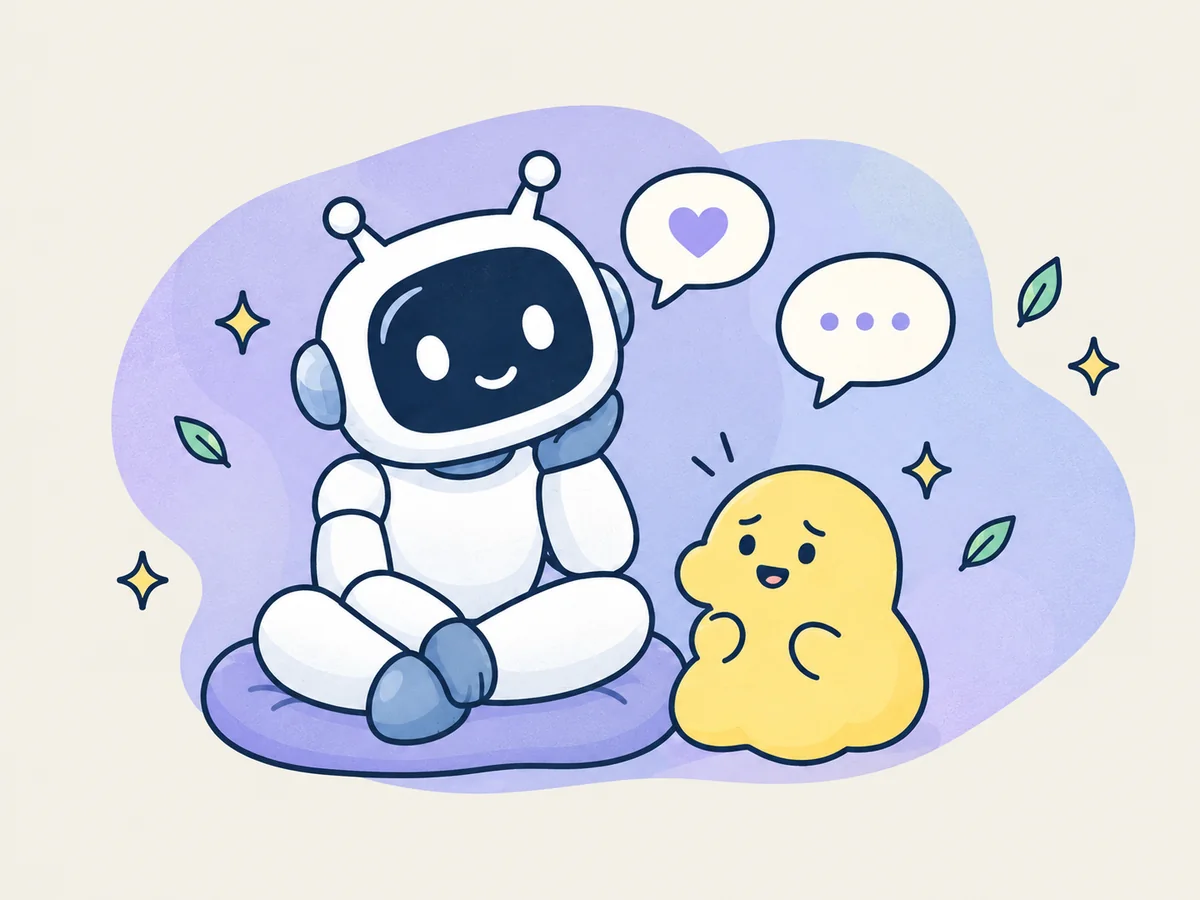
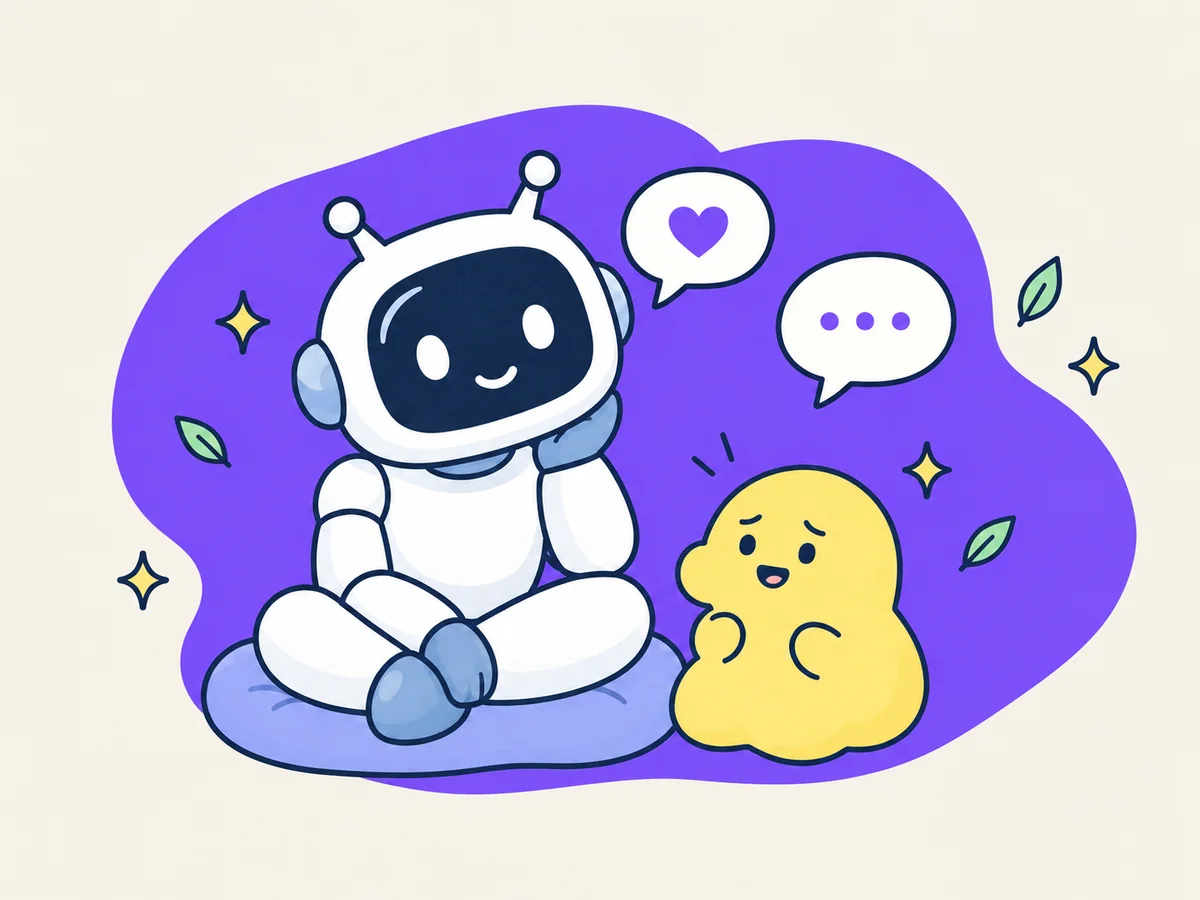
revise home page colors, feature card titles and relaxmate illustration

diff --git a/resources/views/public/beranda.blade.php b/resources/views/public/beranda.blade.php
@@ -47,8 +47,8 @@
                     <img src="{{ $img }}/asesmen-checklist.webp" width="700" height="700" loading="lazy" alt="" data-tilt="4" class="size-32 object-contain">
                 </div>
                 <div>
-                    <h3>Asesmen</h3>
-                    <p class="mt-2">Jawab beberapa pertanyaan dan lihat gambaran awal kondisimu.</p>
+                    <h3 class="text-center text-2xl font-semibold">Asesmen</h3>
+                    <p class="mt-2 text-center">Jawab beberapa pertanyaan dan lihat gambaran awal kondisimu.</p>
                 </div>
             </article>
             <article data-item data-lift class="flex flex-col gap-5 rounded-xl bg-mood-green p-5 text-text shadow-card transition-shadow duration-300 hover:shadow-popover lg:p-6">
@@ -56,8 +56,8 @@
                     <img src="{{ $img }}/mood-tracker.webp" width="700" height="700" loading="lazy" alt="" data-tilt="4" class="size-40 object-contain">
                 </div>
                 <div>
-                    <h3>Mood Tracker</h3>
-                    <p class="mt-2">Catat perasaanmu dan lihat polanya dalam seminggu.</p>
+                    <h3 class="text-center text-2xl font-semibold">Mood Tracker</h3>
+                    <p class="mt-2 text-center">Catat perasaanmu dan lihat polanya dalam seminggu.</p>
                 </div>
             </article>
             <article data-item data-lift class="flex flex-col gap-5 rounded-xl bg-brand p-5 text-on-primary shadow-card transition-shadow duration-300 hover:shadow-popover lg:p-6">
@@ -65,30 +65,30 @@
                     <img src="{{ $img }}/robot-wave.webp" width="800" height="800" loading="lazy" alt="" data-tilt="-4" class="size-36 object-contain">
                 </div>
                 <div>
-                    <h3>RelaxMate</h3>
-                    <p class="mt-2">Teman bicara berbasis AI. Bukan psikolog atau layanan medis.</p>
+                    <h3 class="text-center text-2xl font-semibold">RelaxMate</h3>
+                    <p class="mt-2 text-center">Teman bicara berbasis AI. Bukan psikolog atau layanan medis.</p>
                 </div>
             </article>
         </div>
     </section>
 
     {{-- Langkah: urutan nyata, jadi memakai daftar bernomor --}}
-    <section class="bg-primary text-on-primary" aria-labelledby="judul-langkah">
+    <section class="bg-neutral-soft" aria-labelledby="judul-langkah">
         <div class="mx-auto grid max-w-6xl items-center gap-10 px-4 py-12 md:py-16 lg:grid-cols-2">
             <div>
                 <h2 id="judul-langkah" data-reveal="left" class="text-[1.75rem] md:text-4xl">Pelan-pelan juga tidak <span class="whitespace-nowrap">apa-apa.</span></h2>
                 <ol data-stagger="left" class="mt-8 space-y-3">
-                    <li data-item class="flex items-start gap-4 rounded-xl bg-on-primary/10 p-4 transition duration-300 hover:translate-x-1 hover:bg-on-primary/15">
+                    <li data-item class="flex items-start gap-4 rounded-xl bg-card p-4 shadow-card transition duration-300 hover:translate-x-1 hover:shadow-popover">
                         <span class="grid size-10 shrink-0 place-items-center rounded-full bg-mood-yellow font-semibold text-text" aria-hidden="true">1</span>
-                        <div><h3>Daftar gratis</h3><p class="text-on-primary/85">Buat akun, lalu verifikasi emailmu.</p></div>
+                        <div><h3>Daftar gratis</h3><p class="text-text-secondary">Buat akun, lalu verifikasi emailmu.</p></div>
                     </li>
-                    <li data-item class="flex items-start gap-4 rounded-xl bg-on-primary/10 p-4 transition duration-300 hover:translate-x-1 hover:bg-on-primary/15">
+                    <li data-item class="flex items-start gap-4 rounded-xl bg-card p-4 shadow-card transition duration-300 hover:translate-x-1 hover:shadow-popover">
                         <span class="grid size-10 shrink-0 place-items-center rounded-full bg-mood-green font-semibold text-text" aria-hidden="true">2</span>
-                        <div><h3>Kenali kondisimu</h3><p class="text-on-primary/85">Kerjakan asesmen dan catat mood harianmu.</p></div>
+                        <div><h3>Kenali kondisimu</h3><p class="text-text-secondary">Kerjakan asesmen dan catat mood harianmu.</p></div>
                     </li>
-                    <li data-item class="flex items-start gap-4 rounded-xl bg-on-primary/10 p-4 transition duration-300 hover:translate-x-1 hover:bg-on-primary/15">
-                        <span class="grid size-10 shrink-0 place-items-center rounded-full bg-mood-blue font-semibold text-text" aria-hidden="true">3</span>
-                        <div><h3>Bercerita kapan saja</h3><p class="text-on-primary/85">RelaxMate siap mendengarkan, kapan pun kamu butuh.</p></div>
+                    <li data-item class="flex items-start gap-4 rounded-xl bg-card p-4 shadow-card transition duration-300 hover:translate-x-1 hover:shadow-popover">
+                        <span class="grid size-10 shrink-0 place-items-center rounded-full bg-brand font-semibold text-on-primary" aria-hidden="true">3</span>
+                        <div><h3>Bercerita kapan saja</h3><p class="text-text-secondary">RelaxMate siap mendengarkan, kapan pun kamu butuh.</p></div>
                     </li>
                 </ol>
             </div>
@@ -123,7 +123,7 @@
             <h2 id="judul-aman" data-reveal class="text-2xl md:text-3xl">Ruang aman untuk mahasiswa</h2>
             <div data-stagger class="mt-8 grid gap-4 md:grid-cols-3">
                 <article data-item data-lift class="rounded-xl bg-card p-5 shadow-card transition-shadow duration-300 hover:shadow-popover lg:p-6">
-                    <span class="block size-10 rounded-full bg-mood-blue" aria-hidden="true"></span>
+                    <span class="block size-10 rounded-full bg-mood-yellow" aria-hidden="true"></span>
                     <h3 class="mt-4">Bukan diagnosis</h3>
                     <p class="mt-2 text-text-secondary">Hasil asesmen adalah gambaran awal untuk membantumu mengenali kondisi, bukan penilaian medis.</p>
                 </article>
@@ -133,7 +133,7 @@
                     <p class="mt-2 text-text-secondary">Isi catatan dan percakapanmu dienkripsi, dan tinjauan kualitas dilakukan tanpa identitasmu.</p>
                 </article>
                 <article data-item data-lift class="rounded-xl bg-card p-5 shadow-card transition-shadow duration-300 hover:shadow-popover lg:p-6">
-                    <span class="block size-10 rounded-full bg-mood-yellow" aria-hidden="true"></span>
+                    <span class="block size-10 rounded-full bg-brand" aria-hidden="true"></span>
                     <h3 class="mt-4">Jalur ke profesional</h3>
                     <p class="mt-2 text-text-secondary">Selalu ada arahan dan kontak bantuan bila kamu butuh pendampingan lebih lanjut.</p>
                 </article>
